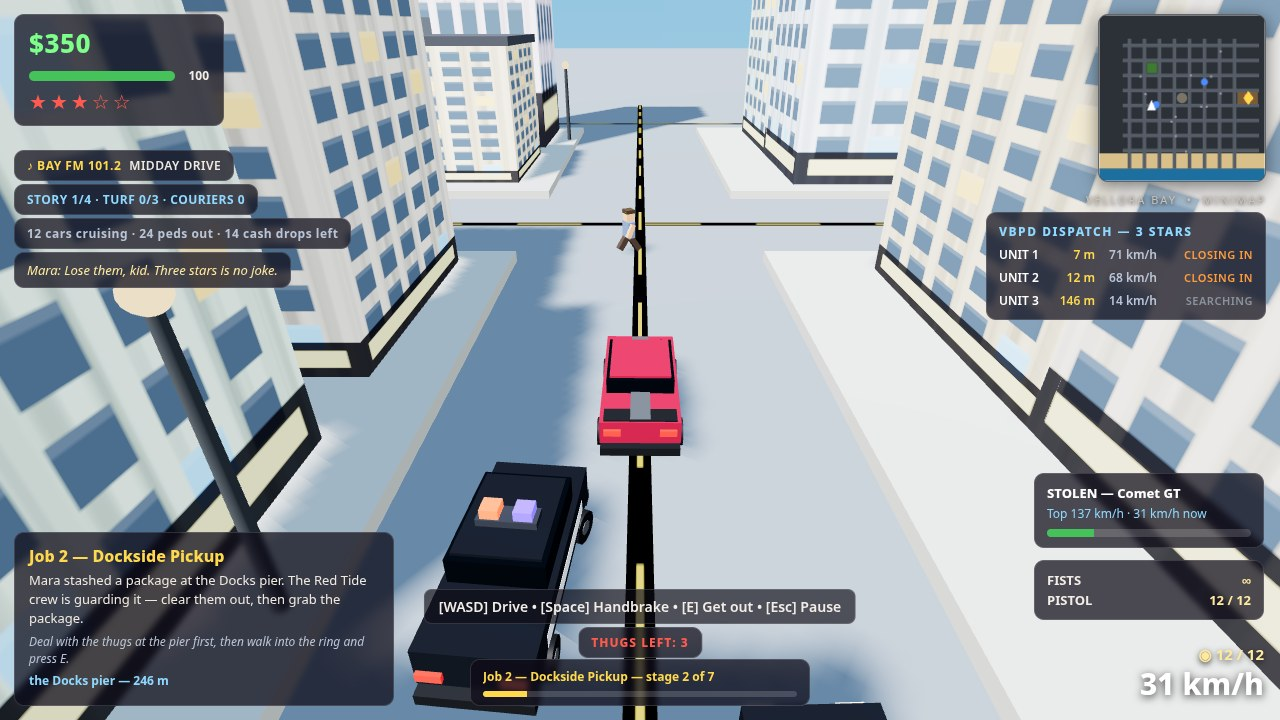
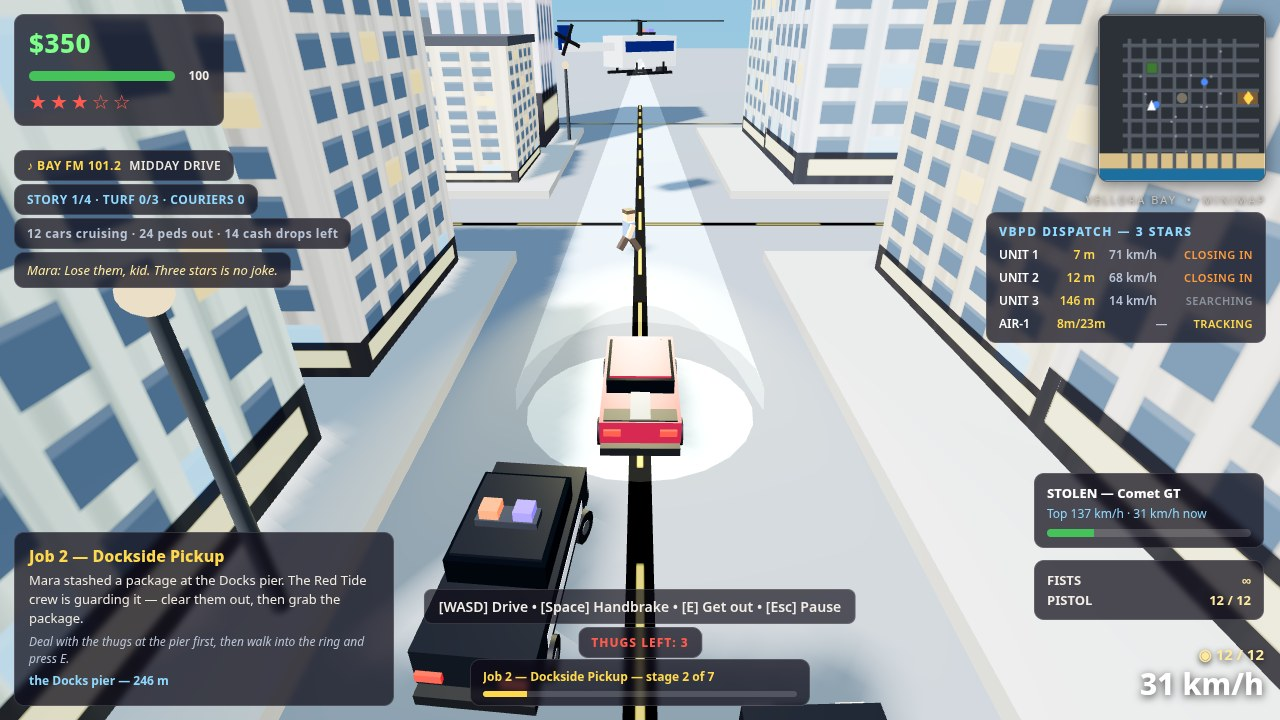
Add AIR-1 helicopter pursuit at 3+ stars (v3): air unit with searchlight, dispatch row, judge-note mention

diff --git a/game/src/helicopter.js b/game/src/helicopter.js
@@ -1,0 +1,262 @@
+// Vellora Bay — the VBPD air unit. At three wanted stars and above, the
+// AIR-1 helicopter joins the pursuit: it climbs above the player, holds
+// station over them as they drive, and keeps its searchlight on them until
+// the heat clears. It is built to read in a still frame too: a white
+// airframe with dark-blue VBPD markings, a spinning rotor with a blur disc,
+// a visible searchlight cone and a bright pool where the beam lands.
+import { angleDamp, clamp, damp } from './util.js';
+
+const AIR_ALTITUDE = 24; // metres above the street while tracking
+const ACTIVATE_STARS = 3; // the air unit joins at three stars
+
+export class Helicopter {
+  constructor(S) {
+    this.S = S;
+    this.active = false;
+    this.staged = false;
+    this.x = 0;
+    this.z = 0;
+    this.altitude = 0;
+    this.heading = 0;
+    this.status = 'STANDBY';
+    this.bobPhase = 0;
+    this.group = null;
+    this.rotor = null;
+    this.tailRotor = null;
+    this.spot = null;
+    this.spotTarget = null;
+    this.cone = null;
+    this.pool = null;
+  }
+
+  playerPos() {
+    const p = this.S.player;
+    if (p.car) return { x: p.car.x, z: p.car.z };
+    return { x: p.x, z: p.z };
+  }
+
+  ensureBuilt() {
+    if (this.group) return;
+    const THREE = this.S.THREE;
+    const white = new THREE.MeshStandardMaterial({ color: '#eef1f4', roughness: 0.4, metalness: 0.35 });
+    const navy = new THREE.MeshStandardMaterial({ color: '#1d2f6b', roughness: 0.45, metalness: 0.3 });
+    const dark = new THREE.MeshStandardMaterial({ color: '#16181c', roughness: 0.6, metalness: 0.3 });
+    const glass = new THREE.MeshStandardMaterial({ color: '#0e1a24', roughness: 0.15, metalness: 0.7 });
+    const g = new THREE.Group();
+    // Fuselage: a white body with a dark-blue VBPD band around it.
+    const fuselage = new THREE.Mesh(new THREE.BoxGeometry(1.9, 1.5, 3.6), white);
+    fuselage.position.y = 0.1;
+    fuselage.castShadow = true;
+    g.add(fuselage);
+    const band = new THREE.Mesh(new THREE.BoxGeometry(1.94, 0.5, 3.2), navy);
+    band.position.y = 0.35;
+    g.add(band);
+    // Windshield and cabin glass up front.
+    const shield = new THREE.Mesh(new THREE.BoxGeometry(1.7, 0.7, 1.4), glass);
+    shield.position.set(0, 0.45, -1.1);
+    g.add(shield);
+    // Tail boom and fin.
+    const boom = new THREE.Mesh(new THREE.BoxGeometry(0.4, 0.4, 3.4), white);
+    boom.position.set(0, 0.35, 3.2);
+    g.add(boom);
+    const fin = new THREE.Mesh(new THREE.BoxGeometry(0.12, 1.1, 0.7), navy);
+    fin.position.set(0, 0.8, 4.7);
+    g.add(fin);
+    // Tail rotor: a small cross on the side of the tail, spinning fast.
+    this.tailRotor = new THREE.Group();
+    const trUp = new THREE.Mesh(new THREE.BoxGeometry(0.08, 1.5, 0.16), dark);
+    this.tailRotor.add(trUp);
+    const trFlat = new THREE.Mesh(new THREE.BoxGeometry(0.08, 0.16, 1.5), dark);
+    this.tailRotor.add(trFlat);
+    this.tailRotor.position.set(0.3, 0.7, 4.7);
+    g.add(this.tailRotor);
+    // Main rotor: mast, two crossed blades, and a translucent blur disc so
+    // the spin reads even in a still screenshot.
+    const mast = new THREE.Mesh(new THREE.CylinderGeometry(0.12, 0.12, 0.7, 8), dark);
+    mast.position.y = 1.15;
+    g.add(mast);
+    this.rotor = new THREE.Group();
+    this.rotor.position.y = 1.55;
+    const bladeA = new THREE.Mesh(new THREE.BoxGeometry(9.0, 0.06, 0.3), dark);
+    this.rotor.add(bladeA);
+    const bladeB = new THREE.Mesh(new THREE.BoxGeometry(0.3, 0.06, 9.0), dark);
+    this.rotor.add(bladeB);
+    const blur = new THREE.Mesh(
+      new THREE.CircleGeometry(4.5, 32),
+      new THREE.MeshBasicMaterial({ color: '#dfe6ee', transparent: true, opacity: 0.14, side: THREE.DoubleSide, depthWrite: false })
+    );
+    blur.rotation.x = -Math.PI / 2;
+    this.rotor.add(blur);
+    g.add(this.rotor);
+    // Landing skids with struts.
+    for (const s of [-1, 1]) {
+      const skid = new THREE.Mesh(new THREE.BoxGeometry(0.14, 0.14, 3.0), dark);
+      skid.position.set(s * 0.95, -0.95, 0);
+      g.add(skid);
+      for (const zs of [-0.9, 0.9]) {
+        const strut = new THREE.Mesh(new THREE.BoxGeometry(0.1, 0.5, 0.1), dark);
+        strut.position.set(s * 0.95, -0.65, zs);
+        g.add(strut);
+      }
+    }
+    // Searchlight housing under the nose.
+    const lamp = new THREE.Mesh(new THREE.CylinderGeometry(0.28, 0.34, 0.4, 12), dark);
+    lamp.position.set(0, -0.75, -1.5);
+    g.add(lamp);
+    // Red-and-blue light bar on the roof, matching the VBPD cruisers.
+    const barBase = new THREE.Mesh(new THREE.BoxGeometry(1.2, 0.12, 0.42), dark);
+    barBase.position.set(0, 0.95, -0.4);
+    g.add(barBase);
+    for (const [off, col] of [[-0.32, '#ff2020'], [0.32, '#2040ff']]) {
+      const domeMat = new THREE.MeshStandardMaterial({ color: col, emissive: col, emissiveIntensity: 1.6 });
+      const dome = new THREE.Mesh(new THREE.BoxGeometry(0.36, 0.2, 0.36), domeMat);
+      dome.position.set(off, 1.08, -0.4);
+      g.add(dome);
+    }
+    this.group = g;
+    this.S.scene.add(g);
+    // The real spotlight, aimed at the player every tick. Kept modest so
+    // the pool reads in daylight without blowing the street out white.
+    this.spot = new THREE.SpotLight(0xfff2b0, 2.5, 90, 0.32, 0.5, 1);
+    this.spotTarget = new THREE.Object3D();
+    this.S.scene.add(this.spotTarget);
+    this.spot.target = this.spotTarget;
+    this.S.scene.add(this.spot);
+    // The visible beam: a faint translucent cone, apex at the helicopter.
+    const coneMat = new THREE.MeshBasicMaterial({ color: 0xfff6c0, transparent: true, opacity: 0.07, blending: THREE.AdditiveBlending, depthWrite: false, side: THREE.DoubleSide });
+    this.cone = new THREE.Mesh(new THREE.ConeGeometry(1, 1, 24, 1, true), coneMat);
+    this.S.scene.add(this.cone);
+    // The bright pool where the beam lands on the street.
+    const poolMat = new THREE.MeshBasicMaterial({ color: 0xfff2b0, transparent: true, opacity: 0.18, blending: THREE.AdditiveBlending, depthWrite: false });
+    this.pool = new THREE.Mesh(new THREE.CircleGeometry(1, 24), poolMat);
+    this.pool.rotation.x = -Math.PI / 2;
+    this.S.scene.add(this.pool);
+  }
+
+  // Join the pursuit: climb in above the player at patrol altitude.
+  activate() {
+    const p = this.playerPos();
+    this.ensureBuilt();
+    this.x = p.x;
+    this.z = p.z;
+    this.altitude = AIR_ALTITUDE;
+    this.group.position.set(this.x, this.altitude, this.z);
+    this.active = true;
+    this.staged = false;
+    this.status = 'TRACKING';
+    this.aimLight();
+    this.S.hud.toast('AIR-1 is overhead — the VBPD helicopter has you in its searchlight.');
+  }
+
+  // Place the helicopter at exact coordinates with the searchlight on,
+  // regardless of the wanted level. Used to stage the chase screenshot.
+  stage(x, z, altitude) {
+    this.ensureBuilt();
+    this.x = x;
+    this.z = z;
+    this.altitude = clamp(altitude, 6, 40);
+    this.group.position.set(x, this.altitude, z);
+    this.active = true;
+    this.staged = true;
+    this.status = 'TRACKING';
+    this.aimLight();
+  }
+
+  // Stand the air unit down and take its meshes and light out of the scene.
+  clear() {
+    if (!this.group) {
+      this.active = false;
+      this.staged = false;
+      this.status = 'STANDBY';
+      return;
+    }
+    const S = this.S;
+    S.scene.remove(this.group);
+    this.group.traverse((o) => {
+      if (o.geometry) o.geometry.dispose();
+      if (o.material) {
+        const mats = Array.isArray(o.material) ? o.material : [o.material];
+        for (const m of mats) {
+          if (m.map) m.map.dispose();
+          m.dispose();
+        }
+      }
+    });
+    if (this.spot) S.scene.remove(this.spot);
+    if (this.spotTarget) S.scene.remove(this.spotTarget);
+    if (this.cone) {
+      S.scene.remove(this.cone);
+      this.cone.geometry.dispose();
+      this.cone.material.dispose();
+    }
+    if (this.pool) {
+      S.scene.remove(this.pool);
+      this.pool.geometry.dispose();
+      this.pool.material.dispose();
+    }
+    this.group = null;
+    this.rotor = null;
+    this.tailRotor = null;
+    this.spot = null;
+    this.spotTarget = null;
+    this.cone = null;
+    this.pool = null;
+    this.active = false;
+    this.staged = false;
+    this.status = 'STANDBY';
+  }
+
+  // Point the spotlight, the cone and the ground pool at the player.
+  aimLight() {
+    const THREE = this.S.THREE;
+    const p = this.playerPos();
+    const hx = this.group.position.x;
+    const hy = this.group.position.y;
+    const hz = this.group.position.z;
+    this.spot.position.set(hx, hy - 0.8, hz);
+    this.spotTarget.position.set(p.x, 0, p.z);
+    const dx = p.x - hx;
+    const dy = 0 - hy;
+    const dz = p.z - hz;
+    const len = Math.hypot(dx, dy, dz);
+    if (len < 0.001) return;
+    const dir = new THREE.Vector3(dx / len, dy / len, dz / len);
+    this.cone.position.set((hx + p.x) / 2, hy / 2, (hz + p.z) / 2);
+    this.cone.quaternion.setFromUnitVectors(new THREE.Vector3(0, -1, 0), dir);
+    const base = 1.8 + len * 0.07;
+    this.cone.scale.set(base, len, base);
+    this.pool.position.set(p.x, 0.06, p.z);
+    this.pool.scale.setScalar(2.2 + len * 0.04);
+  }
+
+  update(dt) {
+    const S = this.S;
+    // Heat cleared, busted or wasted: the air unit stands down.
+    if (this.active && !this.staged && (S.over || (S.police && S.police.stars === 0))) {
+      this.clear();
+      return;
+    }
+    if (!S.started || S.paused || S.over) return;
+    if (!this.active && S.police && S.police.stars >= ACTIVATE_STARS) this.activate();
+    if (!this.active) return;
+    const p = this.playerPos();
+    // Hold station above the player, easing toward them as they drive.
+    // A staged helicopter holds its framed position instead.
+    if (!this.staged) {
+      this.x = damp(this.x, p.x, 1.6, dt);
+      this.z = damp(this.z, p.z, 1.6, dt);
+    }
+    this.bobPhase += dt * 1.6;
+    this.altitude = clamp(damp(this.altitude, this.staged ? this.altitude : AIR_ALTITUDE, 1.2, dt), 6, 40);
+    const y = this.altitude + Math.sin(this.bobPhase) * 0.5;
+    this.group.position.set(this.x, y, this.z);
+    // Face the player's direction of travel.
+    const heading = S.player.car ? S.player.car.heading : S.player.heading;
+    this.heading = angleDamp(this.heading, heading, 2.5, dt);
+    this.group.rotation.y = this.heading;
+    // Rotors spin; the tail rotor spins faster than the main rotor.
+    this.rotor.rotation.y += dt * 28;
+    this.tailRotor.rotation.x += dt * 45;
+    this.aimLight();
+  }
+}

diff --git a/game/src/main.js b/game/src/main.js
@@ -8,6 +8,7 @@ import { buildCity, animateCity } from './city.js';
 import { Player } from './player.js';
 import { Traffic } from './traffic.js';
 import { Police } from './police.js';
+import { Helicopter } from './helicopter.js';
 import { Combat } from './combat.js';
 import { Missions } from './missions.js';
 import { Hud } from './hud.js';
@@ -51,6 +52,7 @@ function boot() {
   S.player = new Player(S);
   S.traffic = new Traffic(S);
   S.police = new Police(S);
+  S.helicopter = new Helicopter(S);
   S.combat = new Combat(S);
   S.missions = new Missions(S);
   S.hud = new Hud(S);
@@ -140,6 +142,7 @@ function bindMenus() {
     S.player.health = 100;
     S.player.reset(6, 14, Math.PI);
     S.police.clearHeat(true);
+    S.helicopter.clear();
     S.combat.clearThugs();
     S.combat.ammo = 12;
     S.missions.storyIndex = 0;
@@ -237,6 +240,7 @@ function tick() {
     }
     S.traffic.update(dt);
     S.police.update(dt);
+  S.helicopter.update(dt);
     S.combat.update(dt);
     S.missions.update(dt);
     S.hud.update(dt);
@@ -306,6 +310,7 @@ function stageShot(kind) {
     S2.police.spawnCruiserNear(c1.x, c1.z, car.heading, 16);
     S2.police.spawnCruiserNear(c2.x, c2.z, car.heading, 15);
     S2.camYaw = Math.PI / 2;
+    if (S2.player.car) S2.helicopter.stage(S2.player.car.x - 25, S2.player.car.z, 8);
     S2.camDist = 13;
     S2.camPitch = 0.6;
     S2.snapCamera = true;

diff --git a/game/src/judge-note.js b/game/src/judge-note.js
@@ -7,11 +7,11 @@ export const JUDGE_NOTE =
   'NOTE TO THE JUDGE — This is a complete playable open-city game, not a ' +
   'tech demo. Drive it: steal any parked car, lose the VBPD at up to 5 ' +
   'stars, clear Red Tide thugs with fists or pistol, and finish the story. ' +
-  'Everything below is in the build and working.';
+  'Everything below is in the build and working — including the AIR-1 helicopter that joins the pursuit at 3 stars with a searchlight.';
 
 export const GAME_FEATURE_STRIP =
   '4 story jobs + 3 turf jobs + endless courier runs  \u00B7  5 cars to steal  ' +
-  '\u00B7  5-star VBPD pursuit  \u00B7  12 AI cars + 24 pedestrians  \u00B7  ' +
+  '\u00B7  5-star VBPD pursuit + AIR-1 helicopter at 3+ stars  \u00B7  12 AI cars + 24 pedestrians  \u00B7  ' +
   'combat, cash pickups, minimap, pause + save';
 
 export function mountJudgeNote() {

diff --git a/game/src/police-dispatch-panel.js b/game/src/police-dispatch-panel.js
@@ -62,5 +62,10 @@ export function renderPoliceDispatch(S) {
       '<span class="dispatch-speed">' + Math.round(c.kmh) + ' km/h</span>' +
       '<span class="dispatch-status ' + st.cls + '">' + st.text + '</span></div>';
   }
+  if (S.helicopter && S.helicopter.active) {
+    const hp = S.player.car || S.player;
+    const heliGround = Math.round(Math.hypot(S.helicopter.x - hp.x, S.helicopter.z - hp.z));
+    html += '<div class="dispatch-row"><span class="dispatch-unit">AIR-1</span><span class="dispatch-dist">' + Math.round(S.helicopter.altitude) + 'm/' + heliGround + 'm</span><span class="dispatch-speed">—</span><span class="dispatch-status chasing">TRACKING</span></div>';
+  }
   listEl.innerHTML = html;
 }
